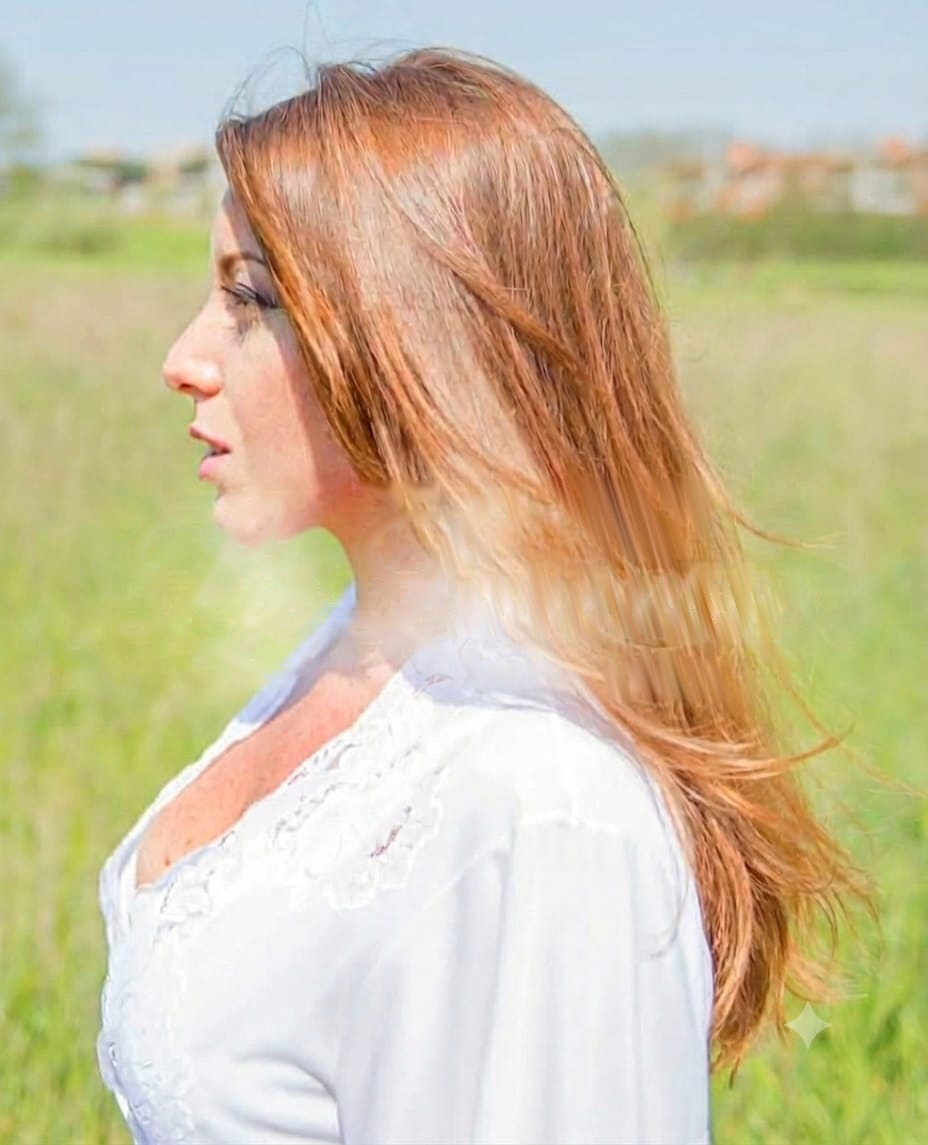
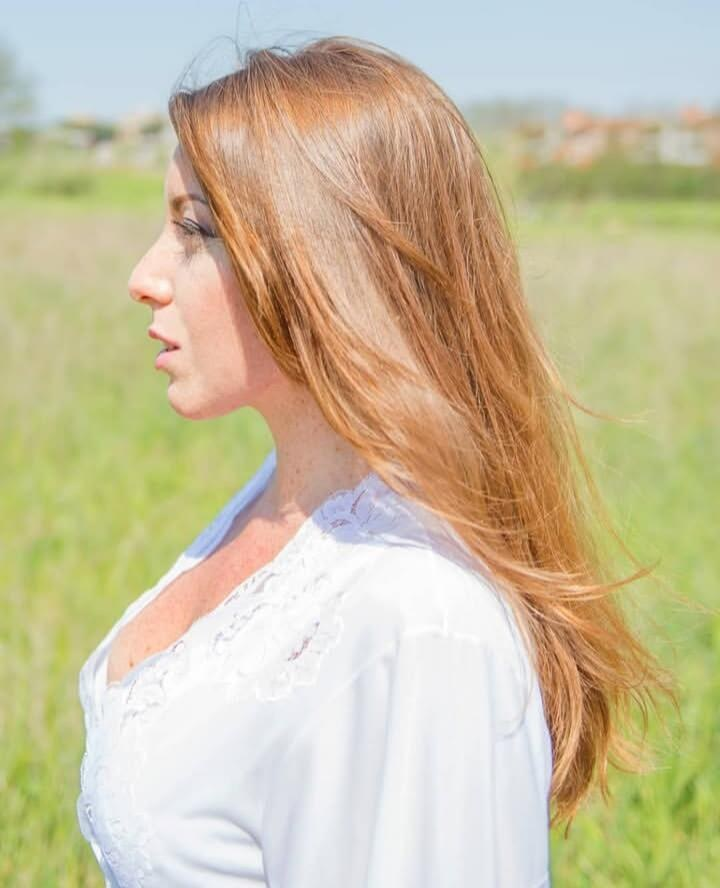
Bio: foto originale senza scritta
Claude-Session: https://claude.ai/code/session_01DbcG8L9TWfKbhTDjmvF9U6

diff --git a/fr/index.html b/fr/index.html
@@ -59,7 +59,7 @@
 <section class="section bio-section">
   <div class="bio">
     <figure class="bio-photo paper-frame tilt-l">
-      <img src="../img/lie-ritratto-bio.jpg" alt="Portrait de Lié Larousse dans un pré">
+      <img src="../img/lie-ritratto-bio.jpg?v=2" alt="Portrait de Lié Larousse dans un pré">
     </figure>
     <div class="bio-text">
       <p class="dropcap">Lié Larousse habite exactement là, entre les rythmes de la terre, la magie des petites choses et la profondeur des liens invisibles. Romancière et nouvelliste, poétesse, professionnelle et chercheuse dans les domaines de la psychologie et de la botanique, Lié cultive depuis 2013 son espace numérique <a href="https://libroarbitrio.wordpress.com/" target="_blank" rel="noopener"><em>“Libroarbitrio – Il tempo di un tè con Lié”</em></a>, un blog littéraire et culturel de référence à l’international.</p>

diff --git a/index.html b/index.html
@@ -59,7 +59,7 @@
 <section class="section bio-section">
   <div class="bio">
     <figure class="bio-photo paper-frame tilt-l">
-      <img src="img/lie-ritratto-bio.jpg" alt="Ritratto di Lié Larousse in un prato">
+      <img src="img/lie-ritratto-bio.jpg?v=2" alt="Ritratto di Lié Larousse in un prato">
     </figure>
     <div class="bio-text">
       <p class="dropcap">Lié Larousse abita esattamente lì, tra i ritmi della terra, la magia delle piccole cose e la profondità dei legami invisibili. Scrittrice di romanzi e racconti, poetessa, professionista e ricercatrice nei campi della psicologia e della botanica, Lié coltiva dal 2013 il suo spazio digitale <a href="https://libroarbitrio.wordpress.com/" target="_blank" rel="noopener"><em>“Libroarbitrio – Il tempo di un tè con Lié”</em></a>, blog di riferimento letterario e culturale a livello internazionale.</p>

diff --git a/en/index.html b/en/index.html
@@ -59,7 +59,7 @@
 <section class="section bio-section">
   <div class="bio">
     <figure class="bio-photo paper-frame tilt-l">
-      <img src="../img/lie-ritratto-bio.jpg" alt="Portrait of Lié Larousse in a meadow">
+      <img src="../img/lie-ritratto-bio.jpg?v=2" alt="Portrait of Lié Larousse in a meadow">
     </figure>
     <div class="bio-text">
       <p class="dropcap">Lié Larousse lives exactly there, among the rhythms of the earth, the magic of small things and the depth of invisible bonds. A novelist and short-story writer, a poet, a practitioner and researcher in psychology and botany, since 2013 Lié has nurtured her digital space <a href="https://libroarbitrio.wordpress.com/" target="_blank" rel="noopener"><em>“Libroarbitrio – Il tempo di un tè con Lié”</em></a>, an internationally recognised literary and cultural blog.</p>
